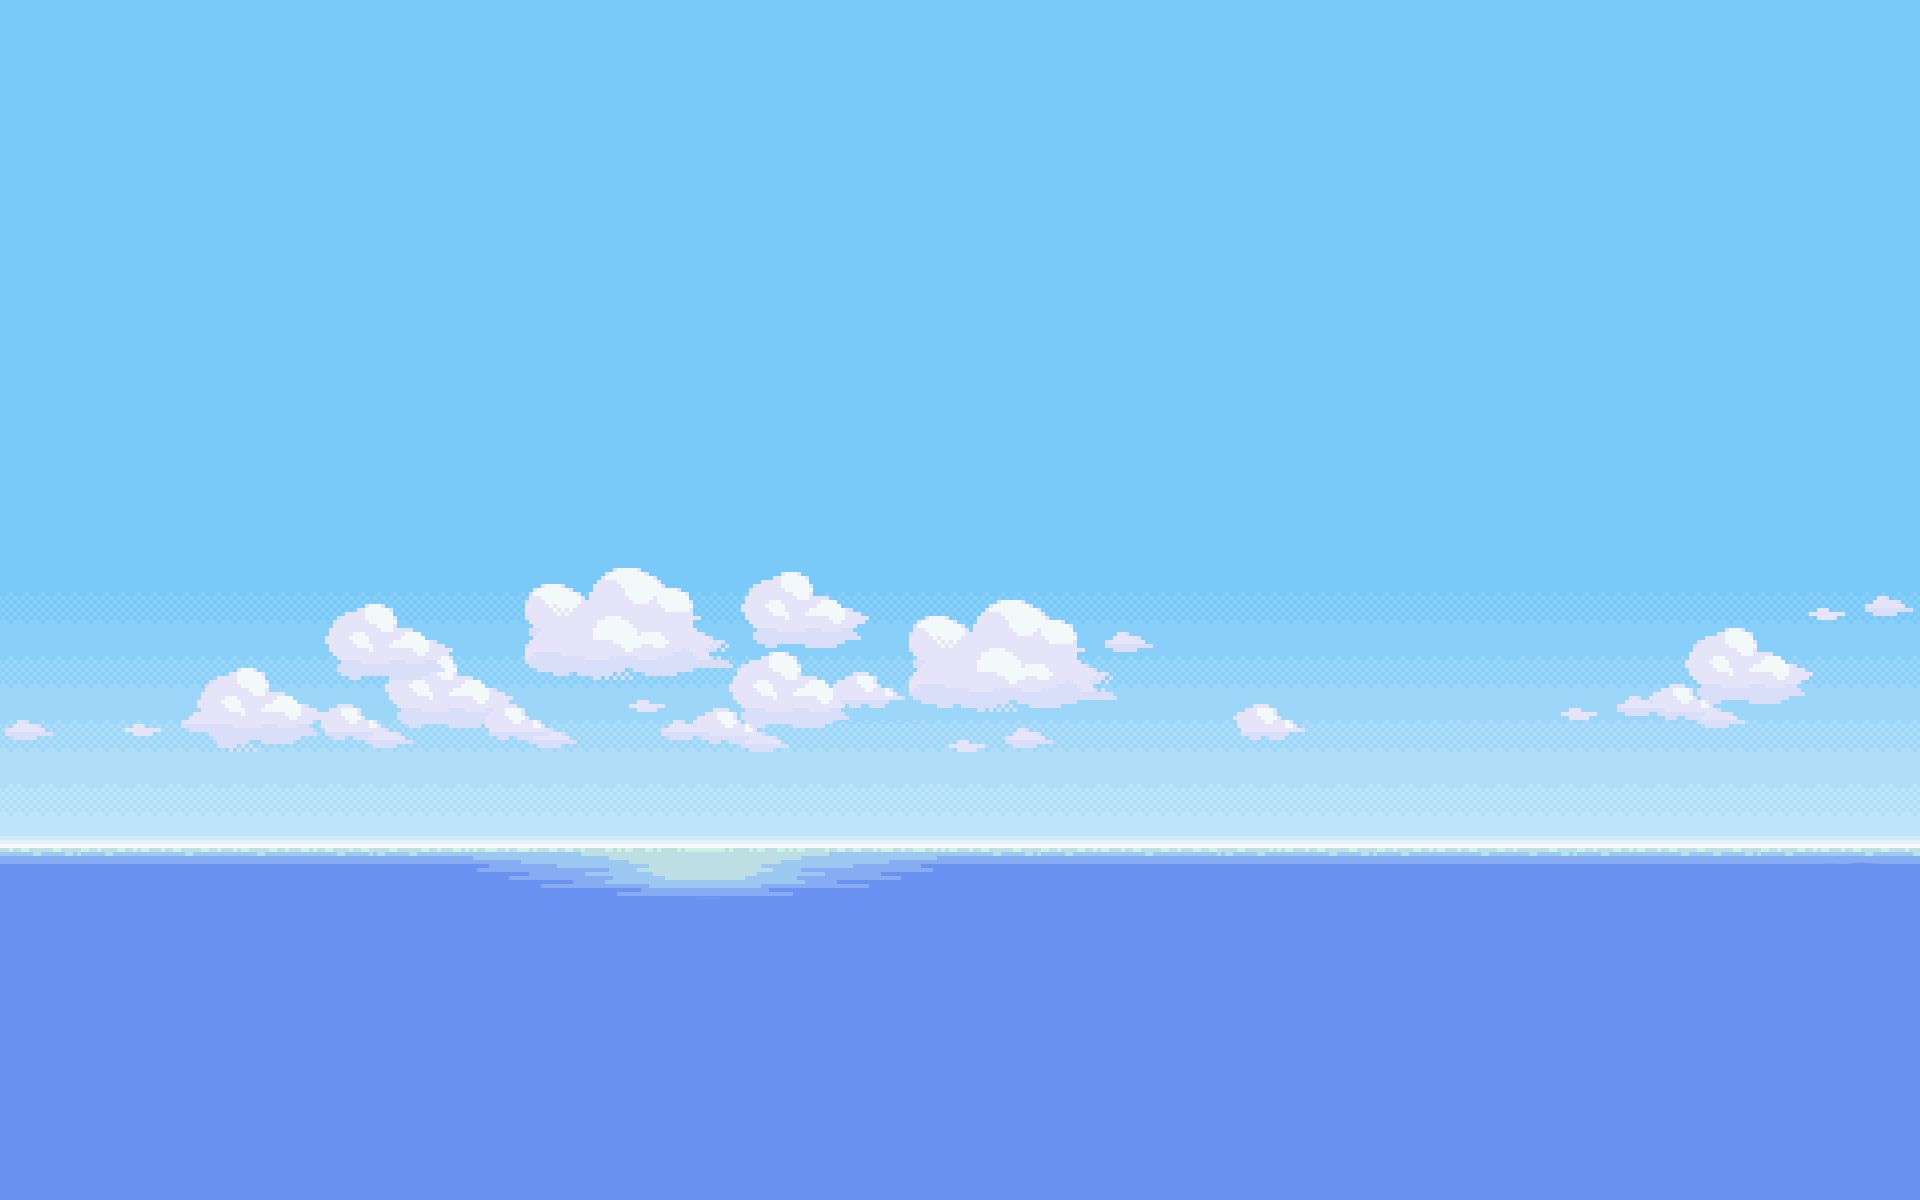
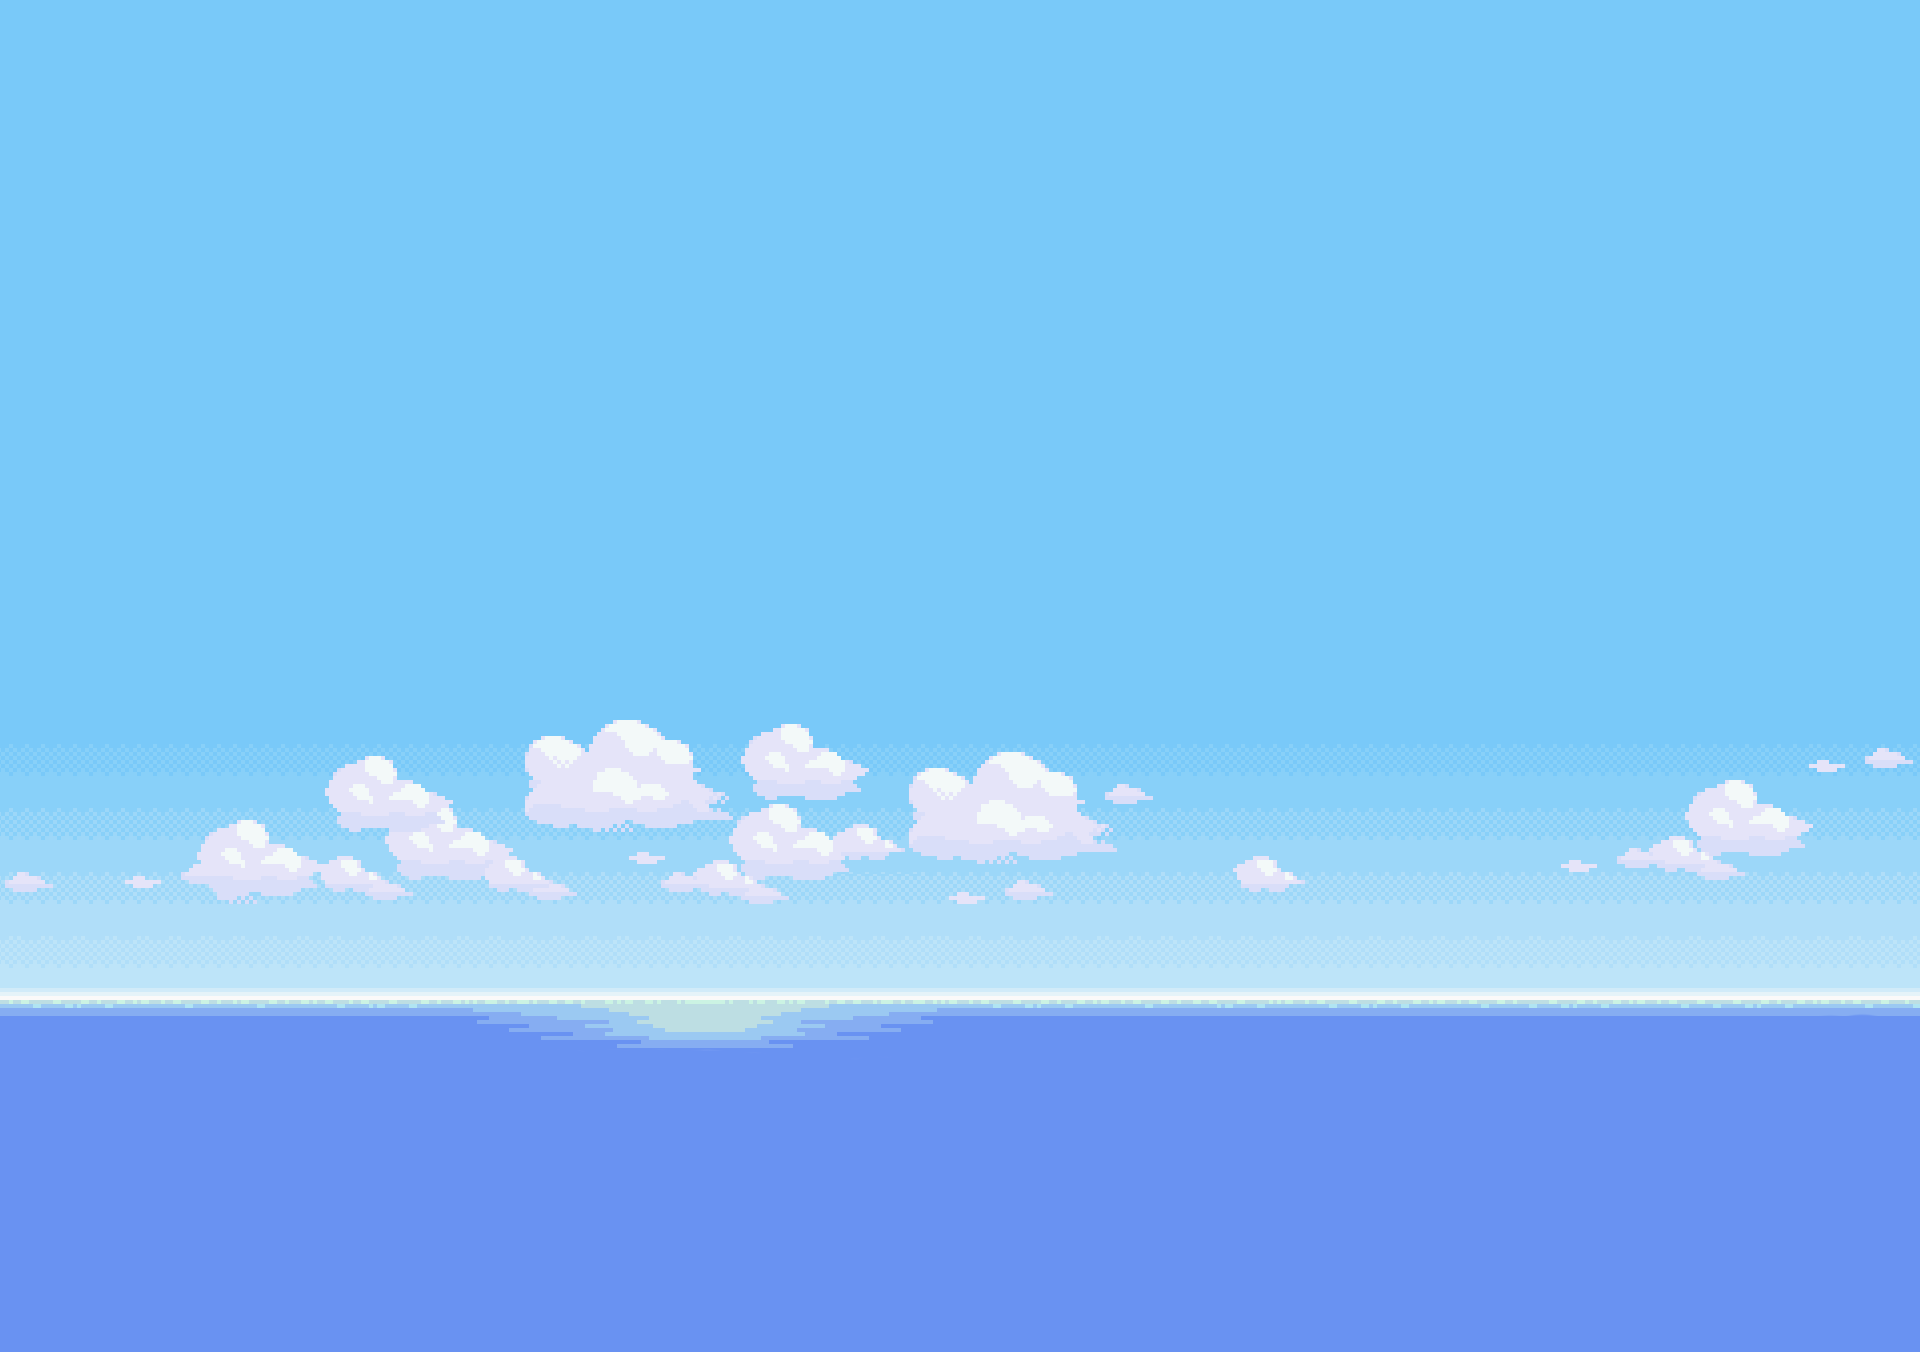
Improve background lv1 and background position.x = 0 when player dies.

Changed region(s): [[0.0, 0.4625, 1.0, 0.8017]]

diff --git a/UpsideDown/Motor2D/j1Player.cpp b/UpsideDown/Motor2D/j1Player.cpp
@@ -313,20 +313,21 @@ bool j1Player::PostUpdate()
 			run_time = SDL_GetTicks() + (1 / player_speed) + 450;
 		}
 	}
-	// Parallax if the camera moves
-	p2List_item<ImageLayer*>* image = nullptr;
+	
+	//Parallax if the camera moves
 	for (image = App->map->data.image_layers.start; image; image = image->next)
 	{
 		if (image->data->speed > 0)
 		{
 			if (camera_goes_left && App->render->camera.x > 200)
-			{
-				image->data->position.x += image->data->speed;
-			}
-			else if (camera_goes_right)
-			{
-				image->data->position.x -= image->data->speed;
-			}
+				if (camera_goes_left && position.x > 450)
+				{
+					image->data->position.x += image->data->speed;
+				}
+				else if (camera_goes_right && position.x < 5900)
+				{
+					image->data->position.x -= image->data->speed;
+				}
 		}
 	}
 	return true;
@@ -379,6 +380,8 @@ void j1Player::OnCollision(Collider* c1, Collider* c2)
 
 	else if (c1->type == COLLIDER_PLAYER && c2->type == COLLIDER_LIMIT)
 	{
+		image = App->map->data.image_layers.start;
+
 		if ((c2->rect.y) > (c1->rect.y + (c1->rect.h - 15)) && invert_gravity == false) //if player touches ground from above 
 		{
 			if (god_mode == false)
@@ -388,6 +391,7 @@ void j1Player::OnCollision(Collider* c1, Collider* c2)
 				invert_gravity = false;
 				App->render->camera.x = Player.camera_position.x;
 				App->render->camera.y = Player.camera_position.y;
+				image->data->position.x = 0; 
 			}
 		}
 		else if ((c2->rect.y + c2->rect.h) < (c1->rect.y + 15) && invert_gravity == true)
@@ -399,6 +403,7 @@ void j1Player::OnCollision(Collider* c1, Collider* c2)
 				invert_gravity = false;
 				App->render->camera.x = Player.camera_position.x;
 				App->render->camera.y = Player.camera_position.y;
+				image->data->position.x = 0; 
 			}
 		}
 	}
